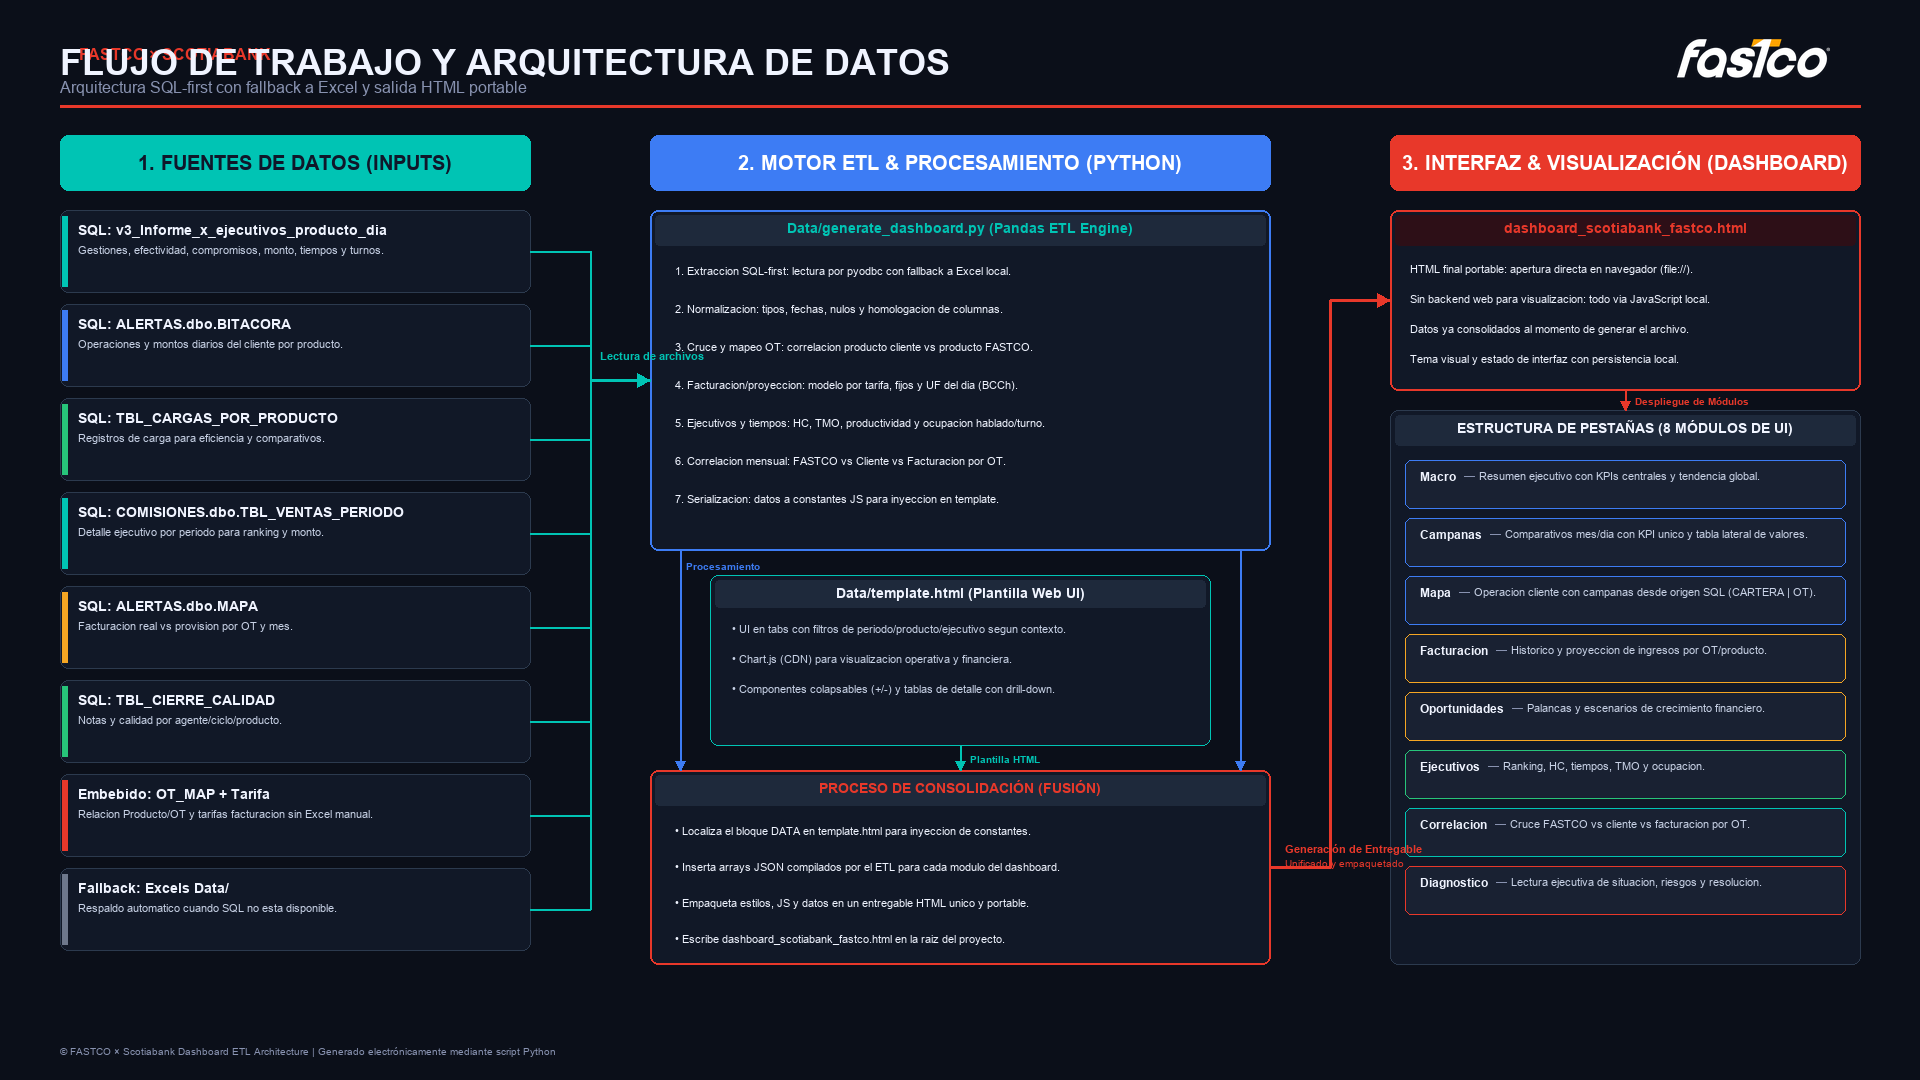
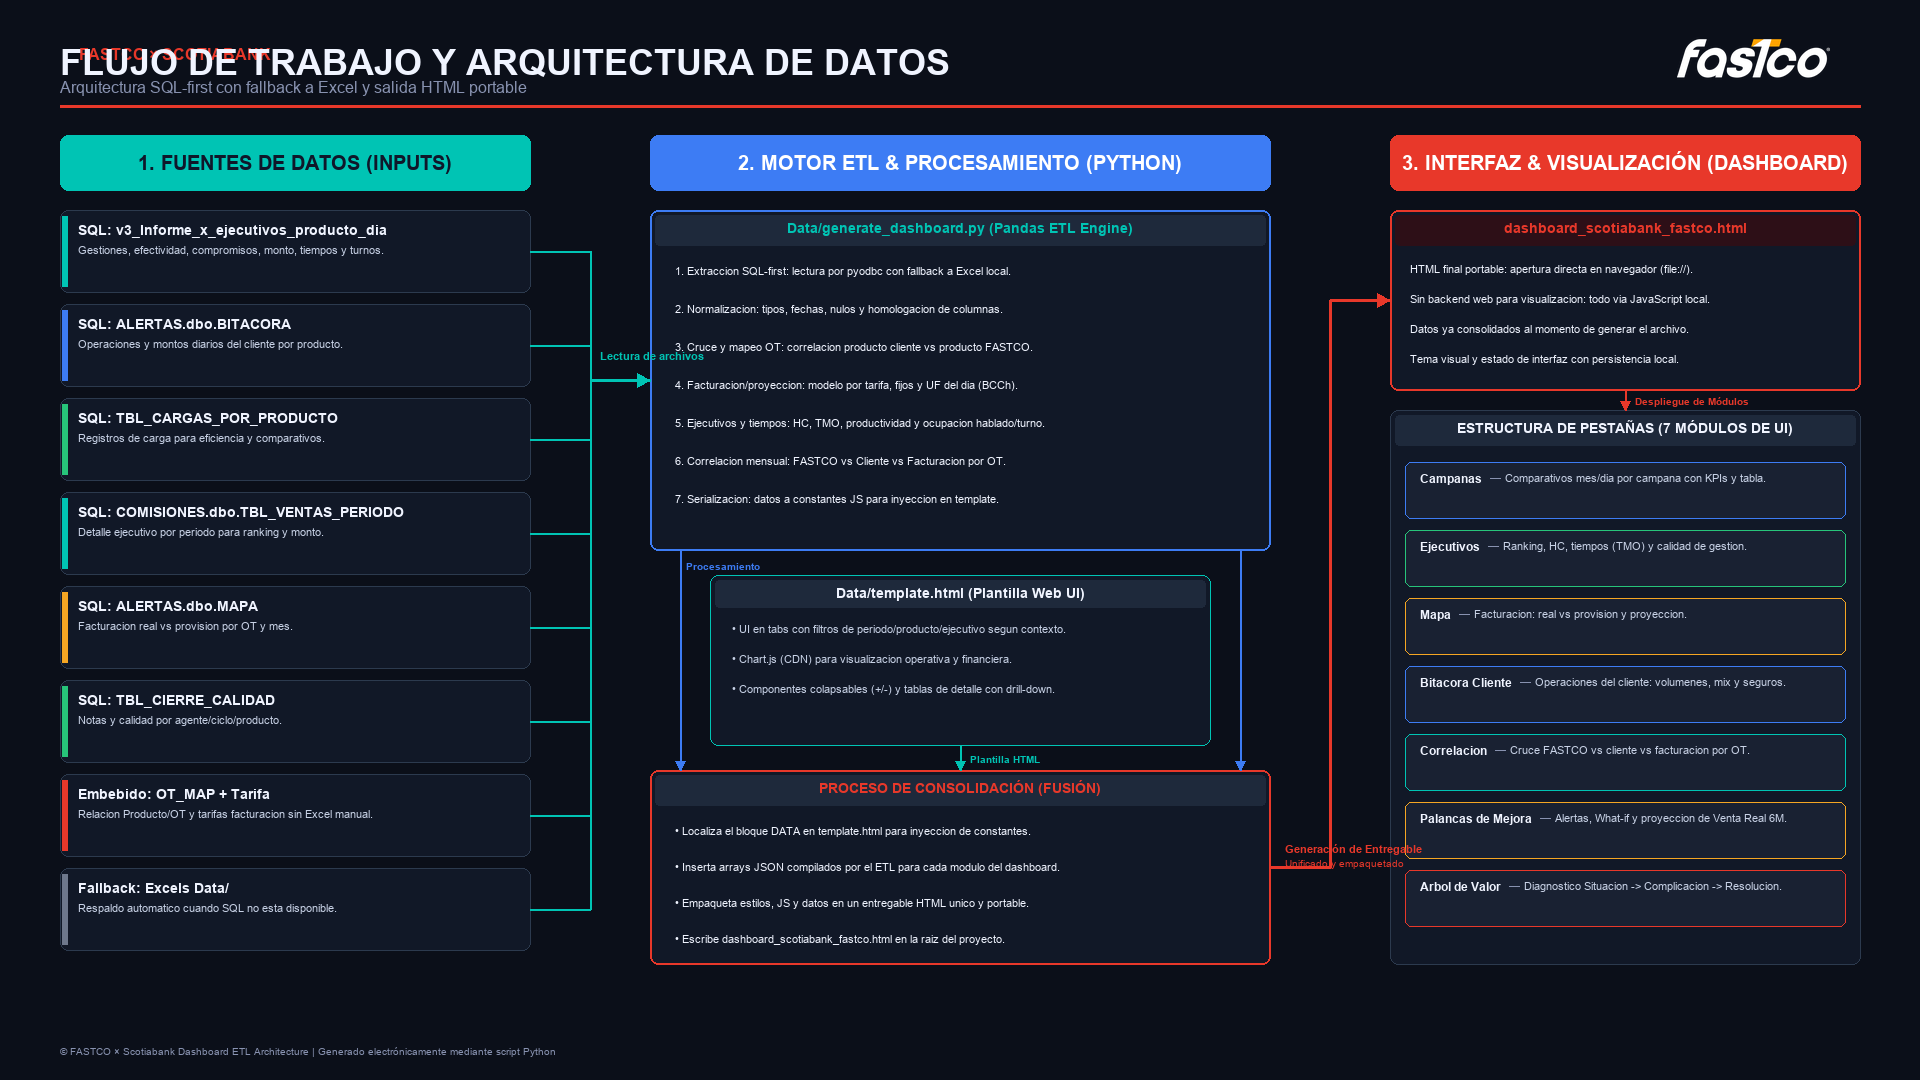
Actualiza README y diagrama de flujo al estado actual
- README: pestanas actuales (7) con etiqueta visible y vista interna
- README: documenta cambios recientes (orden de periodo descendente,
  relabel filtro campana, terminologia Venta real/Compromisos,
  encabezados con descripcion de proposito)
- README: embebe el diagrama de flujo (flujo_operacional_scotiabank.png)
- create_flow_diagram.py: lista de pestanas actualizada a las 7 reales
- Regenera flujo_operacional_scotiabank.png

Changed region(s): [[0.7188, 0.4889, 0.9688, 0.7639], [0.7188, 0.7944, 0.9375, 0.825], [0.75, 0.4278, 0.9062, 0.4583]]

diff --git a/create_flow_diagram.py b/create_flow_diagram.py
@@ -241,22 +241,21 @@ def generate_diagram():
     tabs_y1 = 964
     draw.rounded_rectangle([X_COL3_START, tabs_y0, X_COL3_END, tabs_y1], radius=8, fill=CARD_BG, outline=CARD_BORDER, width=1)
     draw.rounded_rectangle([X_COL3_START + 5, tabs_y0 + 5, X_COL3_END - 5, tabs_y0 + 35], radius=4, fill=(30, 41, 59))
-    draw_centered_text(draw, "ESTRUCTURA DE PESTAÑAS (8 MÓDULOS DE UI)", (X_COL3_START + X_COL3_END)//2, tabs_y0 + 10, TEXT_WHITE, card_title_font)
-    
+    draw_centered_text(draw, "ESTRUCTURA DE PESTAÑAS (7 MÓDULOS DE UI)", (X_COL3_START + X_COL3_END)//2, tabs_y0 + 10, TEXT_WHITE, card_title_font)
+
     tab_pills = [
-        ("Macro", "Resumen ejecutivo con KPIs centrales y tendencia global.", BLUE_ACCENT),
-        ("Campanas", "Comparativos mes/dia con KPI unico y tabla lateral de valores.", BLUE_ACCENT),
-        ("Mapa", "Operacion cliente con campanas desde origen SQL (CARTERA | OT).", BLUE_ACCENT),
-        ("Facturacion", "Historico y proyeccion de ingresos por OT/producto.", ORANGE_ACCENT),
-        ("Oportunidades", "Palancas y escenarios de crecimiento financiero.", ORANGE_ACCENT),
-        ("Ejecutivos", "Ranking, HC, tiempos, TMO y ocupacion.", GREEN_ACCENT),
+        ("Campanas", "Comparativos mes/dia por campana con KPIs y tabla.", BLUE_ACCENT),
+        ("Ejecutivos", "Ranking, HC, tiempos (TMO) y calidad de gestion.", GREEN_ACCENT),
+        ("Mapa", "Facturacion: real vs provision y proyeccion.", ORANGE_ACCENT),
+        ("Bitacora Cliente", "Operaciones del cliente: volumenes, mix y seguros.", BLUE_ACCENT),
         ("Correlacion", "Cruce FASTCO vs cliente vs facturacion por OT.", TEAL_ACCENT),
-        ("Diagnostico", "Lectura ejecutiva de situacion, riesgos y resolucion.", RED_ACCENT)
+        ("Palancas de Mejora", "Alertas, What-if y proyeccion de Venta Real 6M.", ORANGE_ACCENT),
+        ("Arbol de Valor", "Diagnostico Situacion -> Complicacion -> Resolucion.", RED_ACCENT)
     ]
-    
-    tab_h = 48
-    tab_gap = 10
-    tab_start_y = 460
+
+    tab_h = 56
+    tab_gap = 12
+    tab_start_y = 462
     
     for t_idx, (lbl, t_desc, accent) in enumerate(tab_pills):
         ty0 = tab_start_y + t_idx * (tab_h + tab_gap)

diff --git a/README.md b/README.md
@@ -93,20 +93,26 @@ Salida esperada:
 
 ## 8) Pestañas del dashboard
 
-- Campanas
-- Bitacora
-- Facturacion
-- Oportunidades
-- Ejecutivos
-- Correlacion
-- Minto
+El dashboard expone 7 pestañas (etiqueta visible -> vista interna):
+
+- Campanas (`campanas`)
+- Ejecutivos (`ejecutivos`)
+- Mapa (`facturacion`) - facturacion y crecimiento historico
+- Bitacora Cliente (`bitacora`)
+- Correlacion (`correlacion`)
+- Palancas de Mejora (`oportunidades`)
+- Arbol de Valor (`minto`)
 
 Notas funcionales recientes:
+- Filtro de periodo: en todas las pestañas (incluida Calidad dentro de Ejecutivos) los meses se ordenan de forma descendente, con el mes mas actual arriba y el mas antiguo abajo.
+- Filtro de campaña (Palancas de Mejora y Arbol de Valor): las opciones se muestran como "Todas las campañas / Avance / Refinanciamiento / TDC", sin el sufijo "(monto)/(unidades)".
+- Terminologia: el factor del embudo antes llamado "Materializacion" se muestra como "Venta real / Compromisos".
+- Encabezados de Palancas de Mejora y Arbol de Valor reescritos con una descripcion de proposito (que hace cada pestaña y como leerla).
 - Campanas: en los comparativos "Gestion por Mes" y "Gestion por Dia" la seleccion de KPI es single-select.
 - Campanas: cada grafico comparativo incluye una tabla lateral con Actual, Anterior y Prom. 3M.
 - Ejecutivos: el selector de TOP10 se recalcula segun periodo y campaña activos; para TDC el ranking usa cantidad de compromisos.
 - Ejecutivos: existe un bloque separado de "Cuartilizacion Mensual por Ejecutivo" que clasifica por mes con filtros activos; para TDC usa solo compromisos y para el resto combina compromisos y monto.
-- Minto: resumen ejecutivo narrativo embebido en el dashboard.
+- Arbol de Valor: diagnostico ejecutivo Situacion -> Complicacion -> Resolucion embebido, con descomposicion de palancas del embudo (waterfall).
 
 ## 9) Logica funcional clave
 
@@ -127,6 +133,8 @@ El diagrama se genera con:
 
 Archivo de salida:
 - `flujo_operacional_scotiabank.png`
+
+![Flujo operacional y arquitectura de datos](flujo_operacional_scotiabank.png)
 
 ## 11) Mantenimiento
 